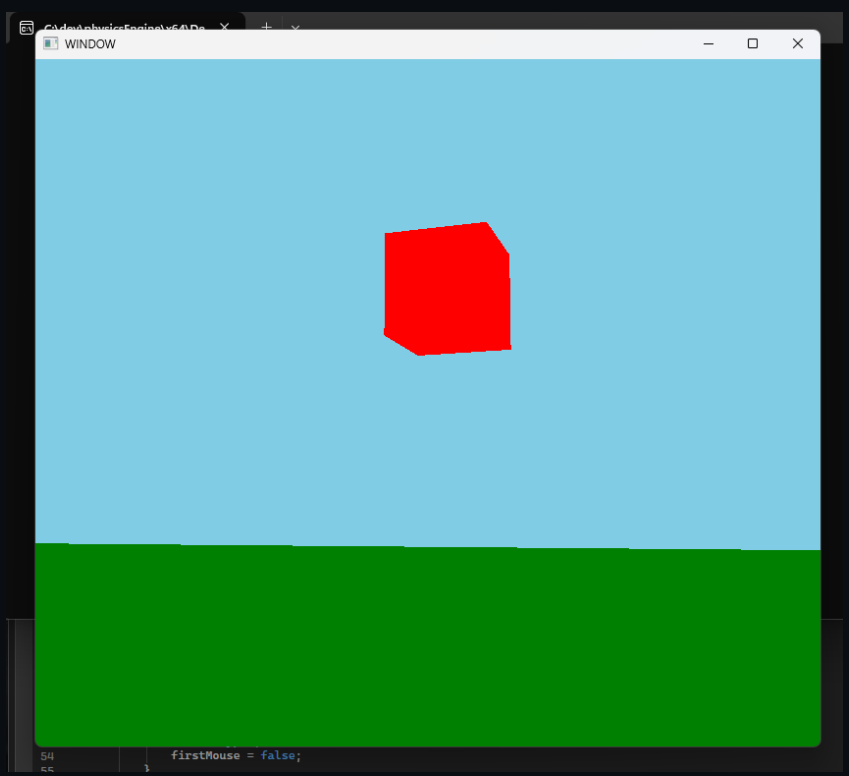
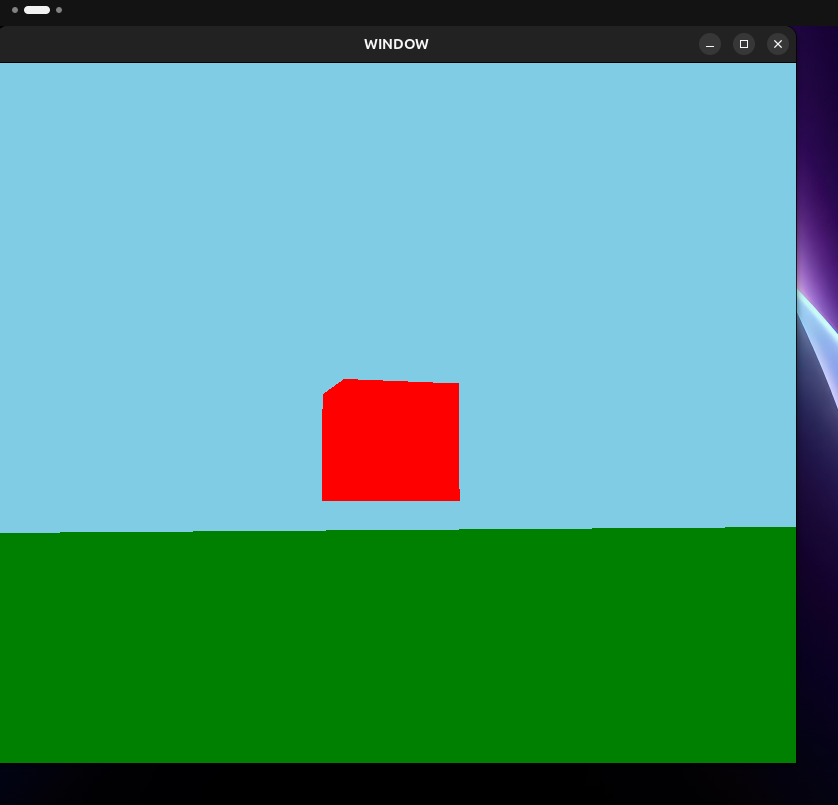
Adjusted README for Physics Engine project, rewritten for Linux operating systems.

Changed region(s): [[0.0, 0.0, 1.0, 1.0]]

diff --git a/project-physics-engine.html b/project-physics-engine.html
@@ -27,7 +27,7 @@
 <main class="doc">
   <a href="index.html" class="doc-back">Back to Home</a>
 
-  <p class="doc-eyebrow">Project #3 &middot; OpenGL/C++ &middot; Jan 2026</p>
+  <p class="doc-eyebrow">Project #3 &middot; OpenGL/C++/Linux &middot; Aug 2026</p>
   <h1 class="doc-title">OpenGL 3D Roaming Gravity Simulation ++</h1>
 
   <a class="doc-repo-link" href="https://github.com/PhysicistsOfDoom/PhysicsEngine" target="_blank" rel="noopener">
@@ -41,20 +41,23 @@
     The goal is to simulate gravity, bouncing, inertia, and all sorts of natural
     world&#8209;like behavior on objects. Materials will eventually be affected based
     on what texture they have &mdash; ice will glide, metal will be heavy, water
-    mechanics come later on.
+    mechanics come later on. Originally built against Visual Studio and Windows-only
+    prebuilt libraries, the project has since been rebuilt from the ground up as a
+    native Linux application on a CMake build system.
   </p>
 
   <figure class="doc-figure">
-    <img src="assets/physics-engine-screenshot.png" alt="Red cube resting on a green plane under a blue sky, rendered in the OpenGL simulation window">
+    <img src="assets/physics-engine-screenshot.png" alt="Red cube resting on a green plane under a blue sky, rendered in the OpenGL simulation window running natively on Linux">
   </figure>
 
   <section class="doc-section">
     <h2>Technical Stack</h2>
     <ul>
-      <li><span>Language</span>C++</li>
-      <li><span>Graphics API</span>OpenGL 4.5+</li>
+      <li><span>Language</span>C++20</li>
+      <li><span>Graphics API</span>OpenGL 3.3+ (core profile)</li>
       <li><span>Windowing / Input</span>GLFW &middot; GLAD &middot; GLM</li>
-      <li><span>Tools</span>Visual Studio &middot; CMake</li>
+      <li><span>Build System</span>CMake</li>
+      <li><span>Platform</span>Linux</li>
     </ul>
   </section>
 
@@ -66,13 +69,22 @@
   </section>
 
   <section class="doc-section">
-    <h2>Download</h2>
+    <h2>Build &amp; Run</h2>
     <ol>
       <li>Clone the repo.</li>
-      <li>Open in Visual Studio.</li>
-      <li>Ensure CMake is installed.</li>
-      <li>Build solution (x64 Release).</li>
+      <li>Install build dependencies: <code>cmake</code>, <code>pkg-config</code>, <code>libglfw3-dev</code>, <code>libgl1-mesa-dev</code>, and the X11 dev libraries (<code>libx11-dev</code>, <code>libxrandr-dev</code>, <code>libxi-dev</code>, <code>libxinerama-dev</code>, <code>libxcursor-dev</code>) &mdash; GLAD and GLM ship vendored in the repo, no separate install needed.</li>
+      <li>Run <code>cmake -B build -DCMAKE_BUILD_TYPE=Release &amp;&amp; cmake --build build -j</code> from the repo root.</li>
+      <li>Launch the built binary: <code>./build/physicsEngine</code>.</li>
     </ol>
+  </section>
+
+  <section class="doc-section">
+    <h2>Controls</h2>
+    <ul>
+      <li><span>W / A / S / D</span>Move forward / left / back / right</li>
+      <li><span>Mouse</span>Look around (cursor locked to window)</li>
+      <li><span>Space</span>Jump (only while grounded)</li>
+    </ul>
   </section>
 </main>
 
